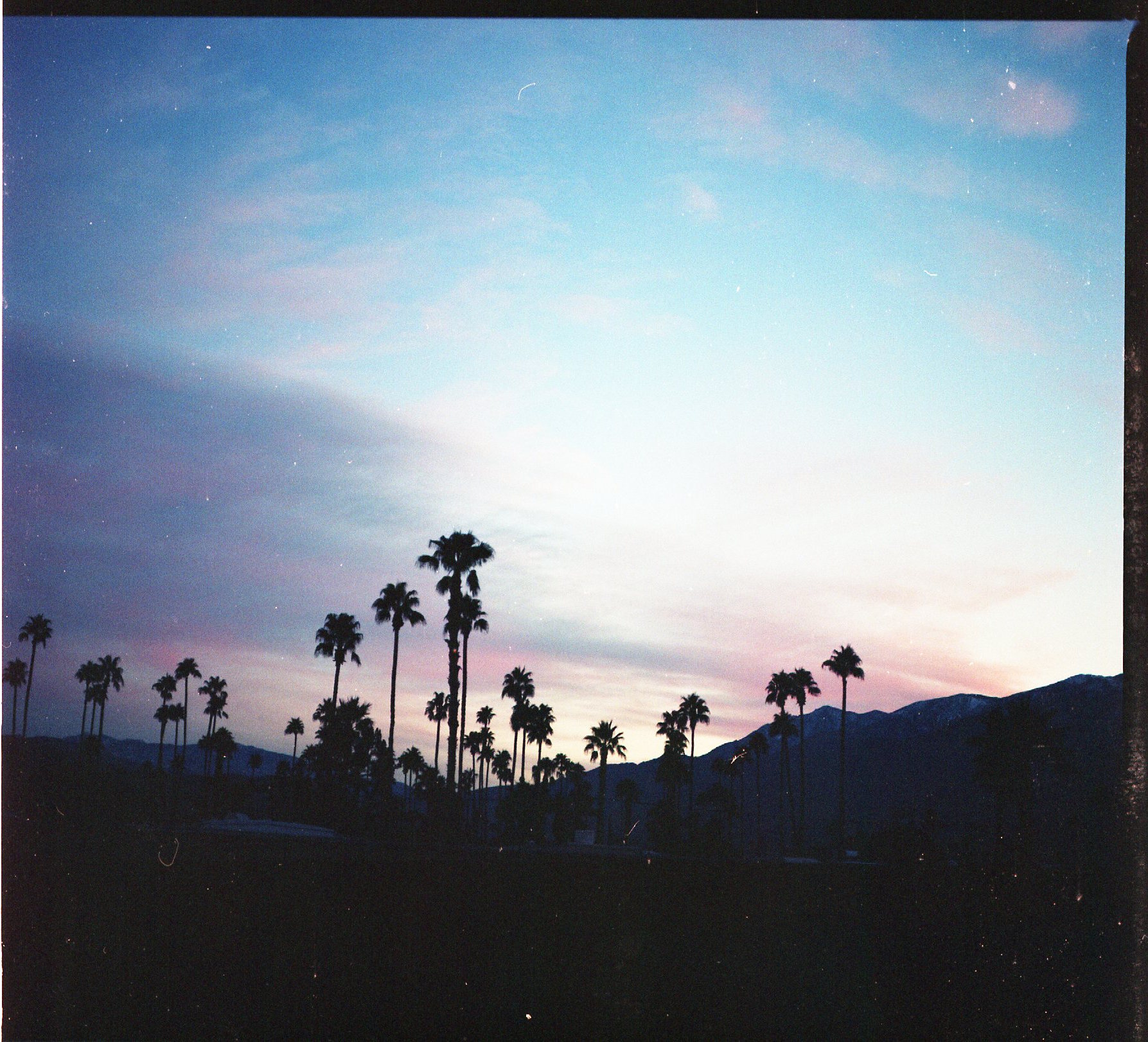
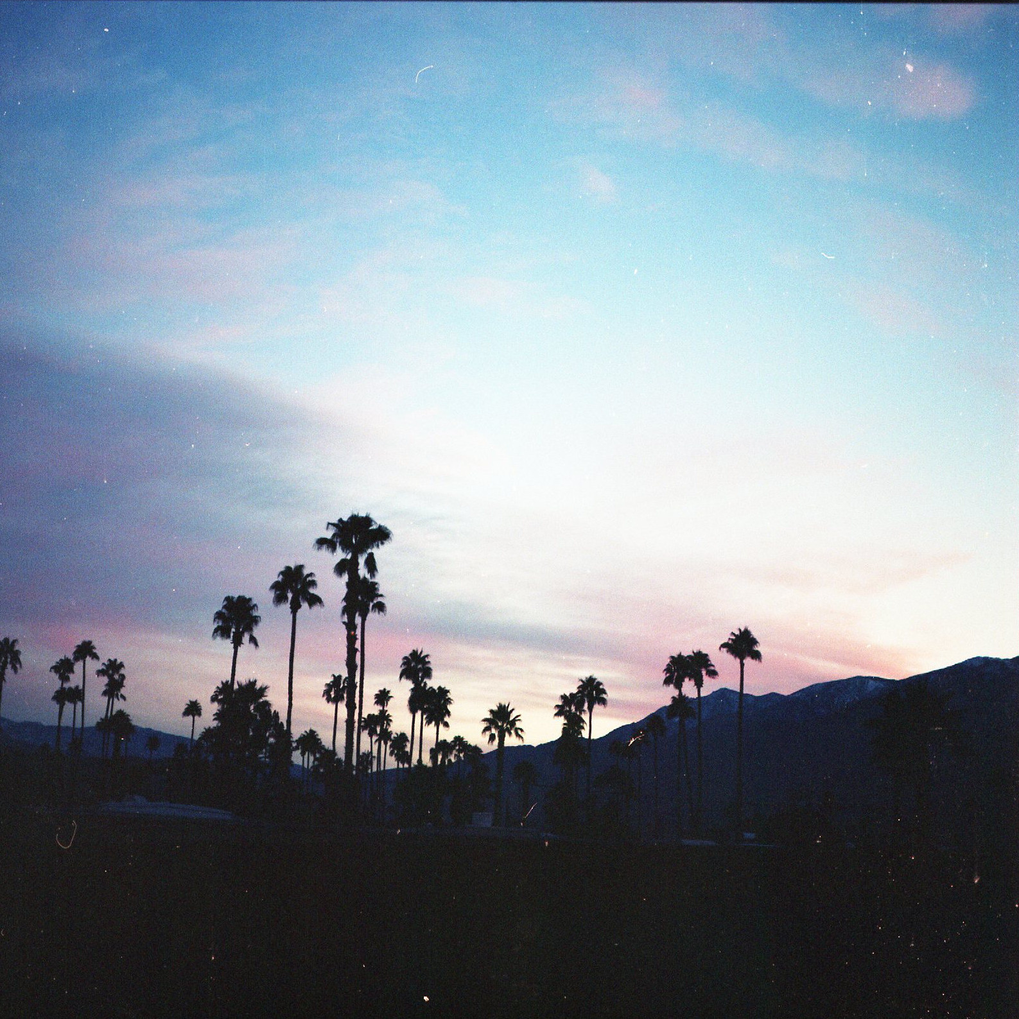
updated pictures, css

diff --git a/index.html b/index.html
@@ -22,12 +22,14 @@
         <p>creator living in brooklyn. interested in collaborating with other musicians, designers, and dark wizards. de omnibus dubitandum.</p> <br>
 
         <div>
-            <a href="ne.html"><img class="img-circle" src="img/hellships2.jpg"></a>
-            <a href="al.html"><img class="img-circle" src="img/hellships3.jpg"></a>
-            <a href="ro.html"><img class="img-circle" src="img/hellships4.jpg"></a>
+            <a href="ne.html"><img class="img-circle" src="img/palmsprings1.jpg"></a>
+            <a href="al.html"><img class="img-circle" src="img/palmsprings3.jpg"></a>
+            <a href="ro.html"><img class="img-circle" src="img/weirdstuff.jpg"></a>
         </div>
         
         <div style="position:relative;height:0;padding-bottom:75.0%"><iframe src="https://www.youtube.com/embed/IUWHi9YA9xk?ecver=2" width="480" height="360" frameborder="0" style="position:absolute;width:100%;height:100%;left:0" allowfullscreen></iframe></div>
+        
+        <p>all photos by whitney evanson.</p>
         
     </body>
 </html>

diff --git a/css/style.css b/css/style.css
@@ -4,7 +4,7 @@ html, body {
 }
 
 body {
-    background-color: #A9A9A9;
+    background-color: #d9d9d9;
 }
 
 .logo {
@@ -74,5 +74,7 @@ h1 {
 
 p {
     font-family: sans-serif;
-    text-align: center;
+    text-align: left;
+    padding: 10px;
+    margin: 5%;
 }
